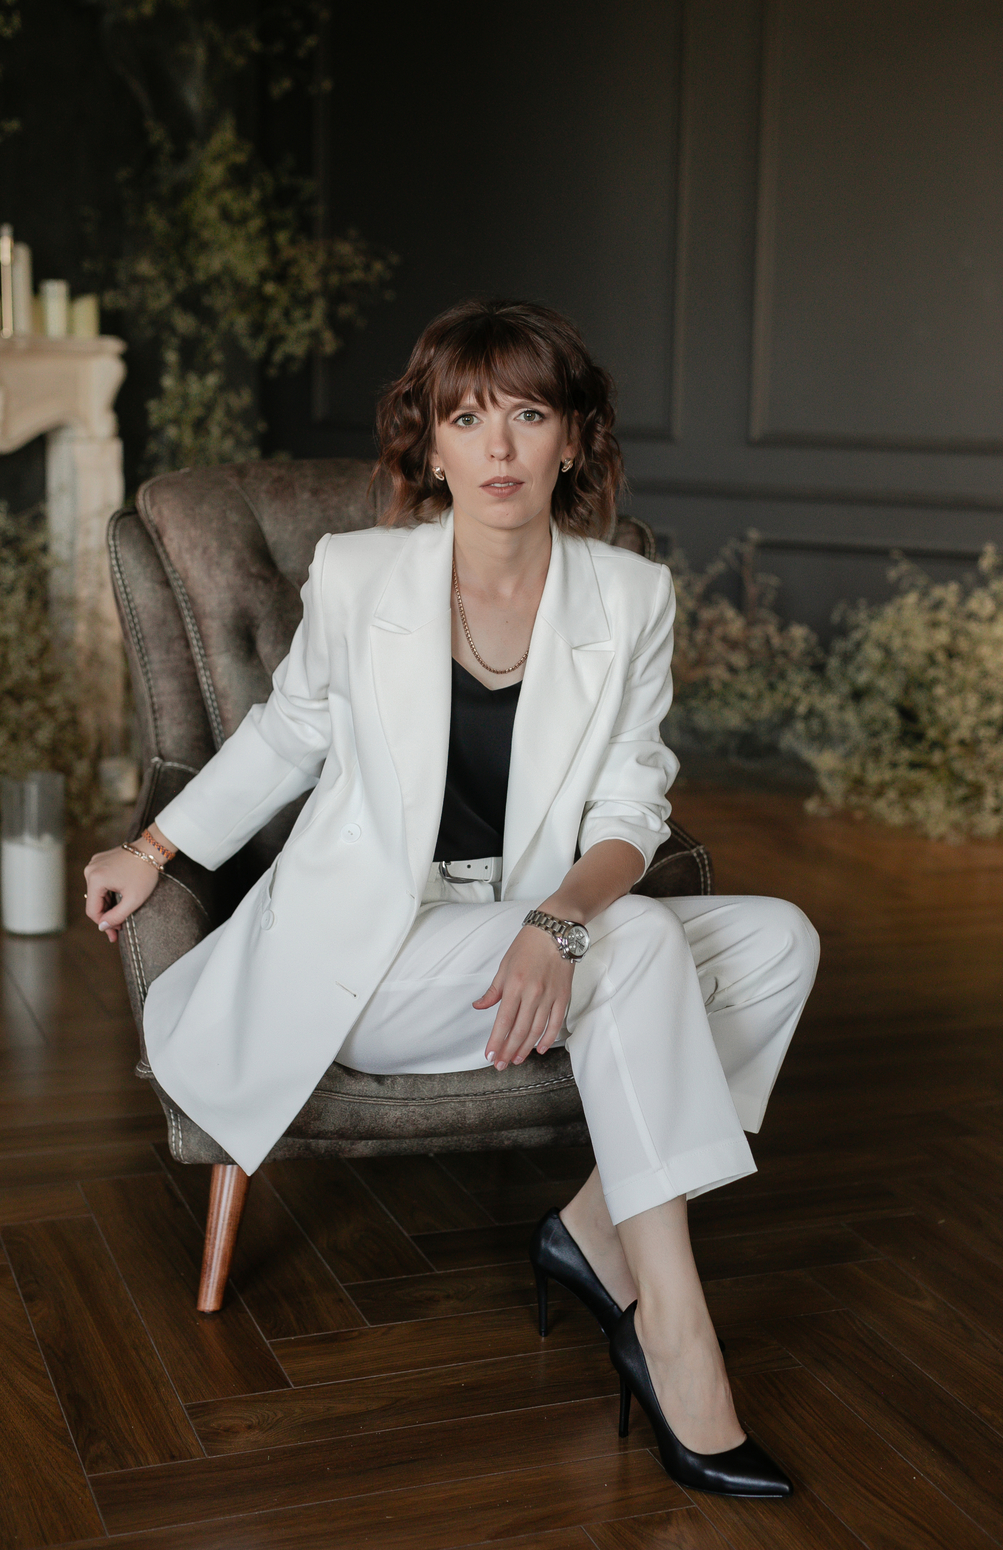
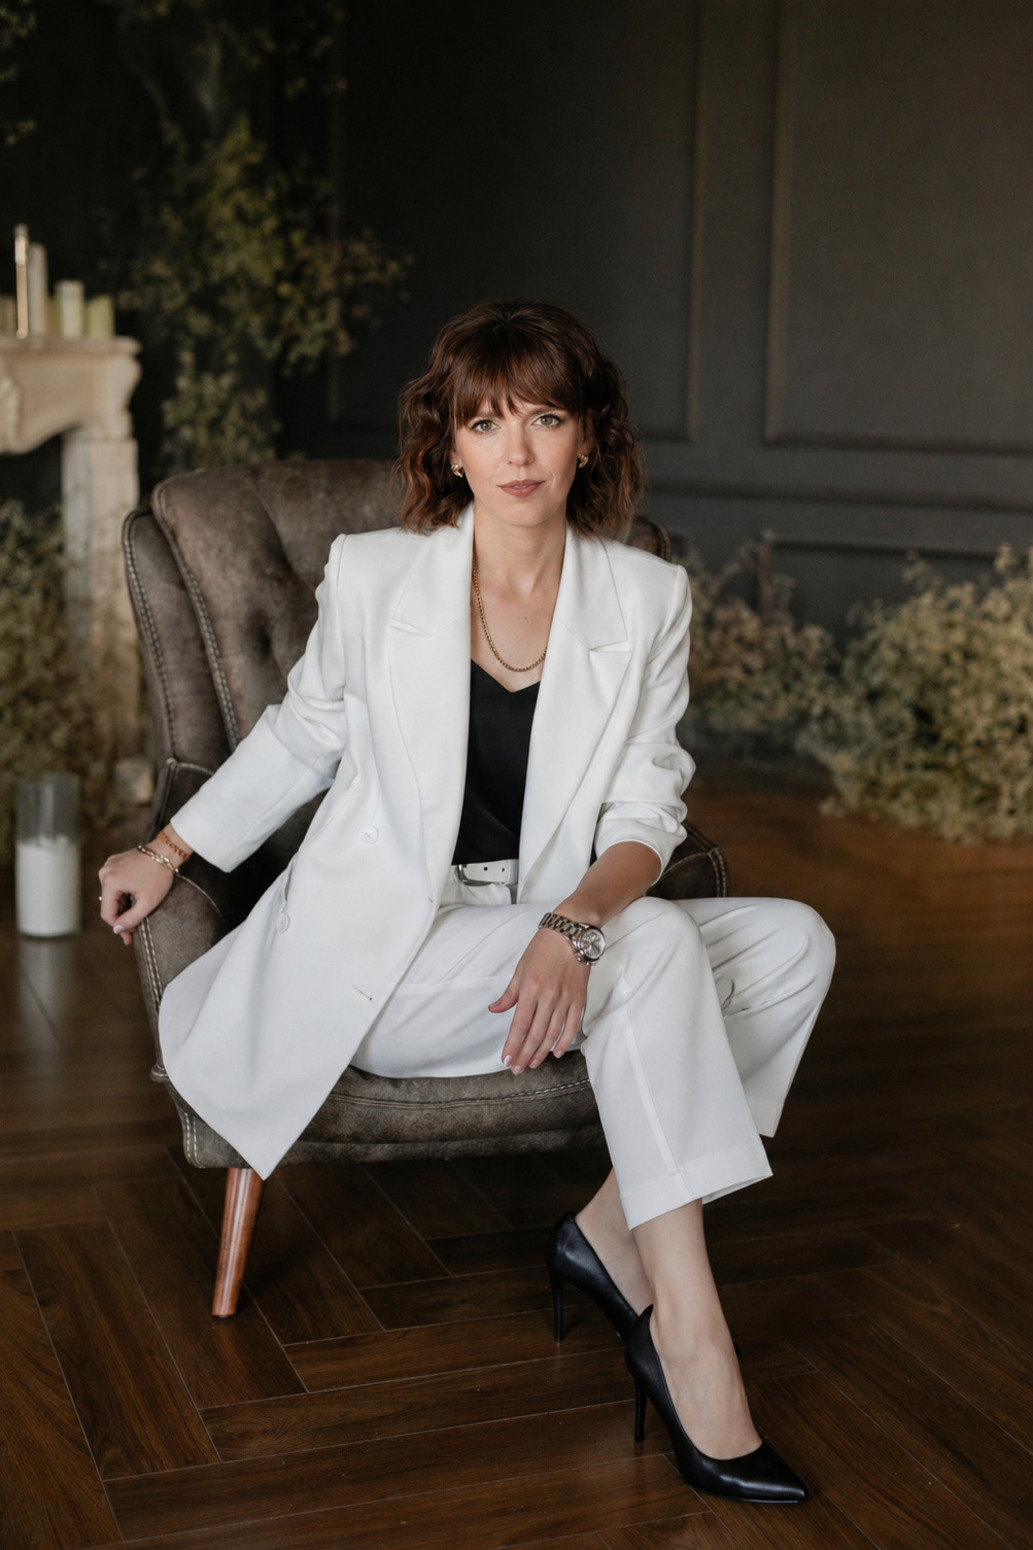
Update mobile photo

diff --git a/css/styles.css b/css/styles.css
@@ -4461,7 +4461,7 @@ img.u-pull-left {
     margin-top: var(--vspace-1);
     margin-bottom: 0;
   }
-
+} /* end @media screen and (min-width: 1201px) */
 
 /* аккуратные интервалы списка без <br> */
 .about-info__text .about-list {